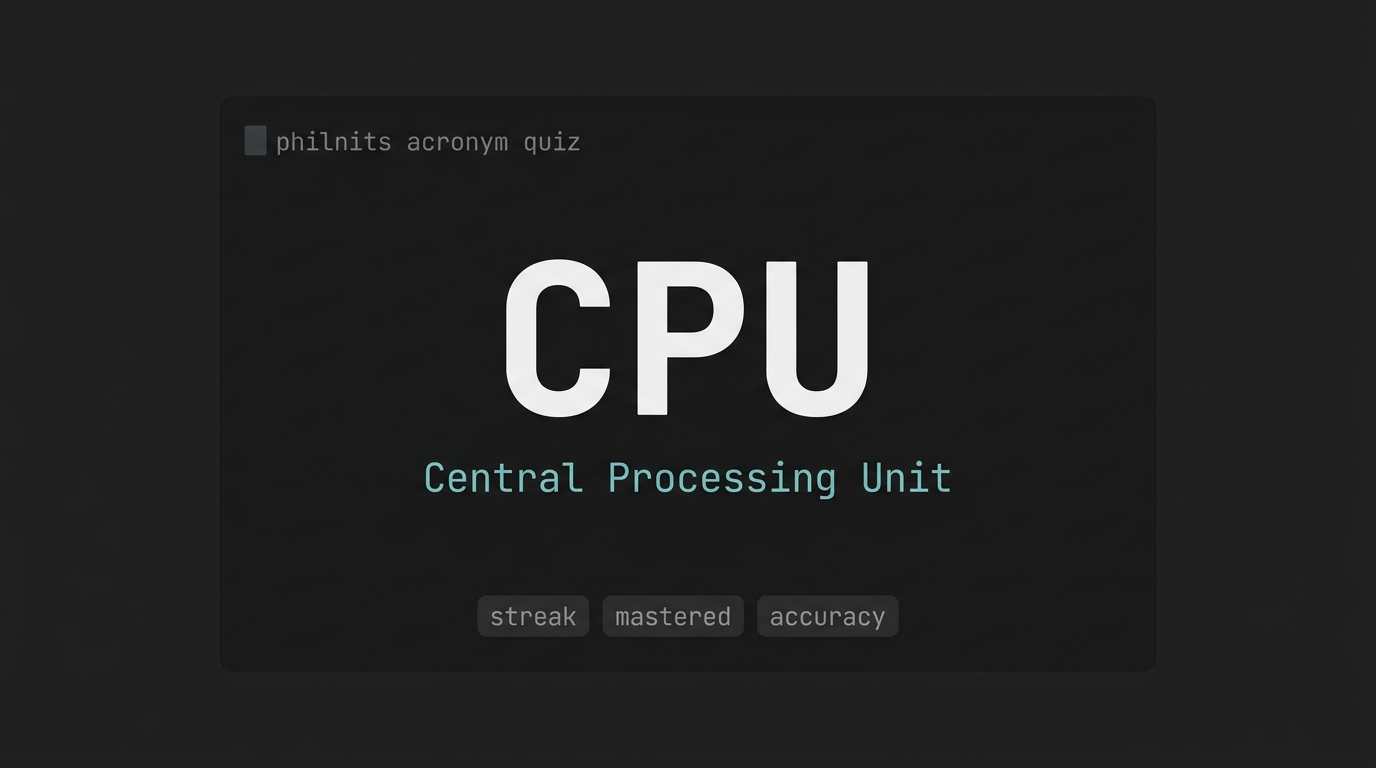
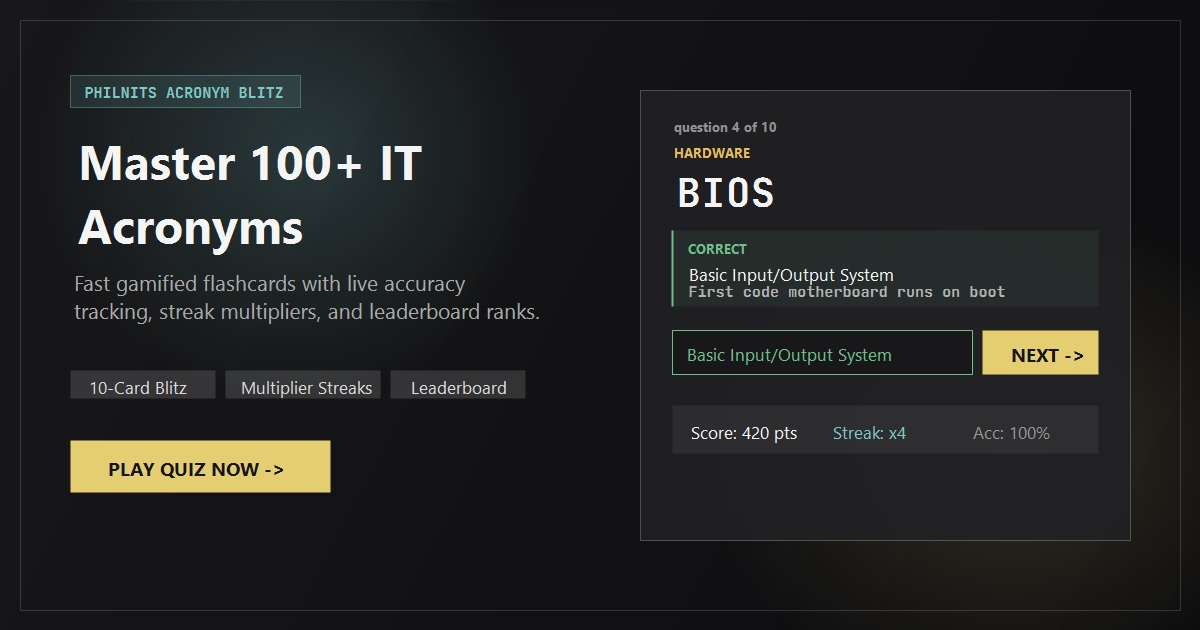
update seo

diff --git a/app/src/app.html b/app/src/app.html
@@ -7,7 +7,7 @@
 
 		<!-- Primary SEO -->
 		<title>PhilNITS Acronym Blitz — IT Acronym Quiz</title>
-		<meta name="description" content="Master PhilNITS IT acronyms with a fast, gamified flashcard quiz. Track your streak, accuracy, and climb the leaderboard. 100+ acronyms covering networking, security, hardware, software & more." />
+		<meta name="description" content="Master PhilNITS IT acronyms with a fast flashcard quiz. Test your speed, track streaks, and climb the live leaderboard with 100+ terms." />
 		<meta name="keywords" content="PhilNITS, IT acronyms, acronym quiz, NITS exam, Philippines IT certification, flashcard quiz, networking acronyms, security acronyms" />
 		<meta name="author" content="PhilNITS Acronym Blitz" />
 		<meta name="robots" content="index, follow" />
@@ -22,18 +22,18 @@
 		<meta property="og:type" content="website" />
 		<meta property="og:url" content="https://acronymquiz.pages.dev/" />
 		<meta property="og:title" content="PhilNITS Acronym Blitz — IT Acronym Quiz" />
-		<meta property="og:description" content="Master PhilNITS IT acronyms with a fast, gamified flashcard quiz. Track your streak, accuracy, and climb the leaderboard." />
+		<meta property="og:description" content="Master PhilNITS IT acronyms with a fast flashcard quiz. Test your speed, track streaks, and climb the live leaderboard with 100+ terms." />
 		<meta property="og:image" content="https://acronymquiz.pages.dev/og-preview.jpg" />
 		<meta property="og:image:width" content="1200" />
 		<meta property="og:image:height" content="630" />
-		<meta property="og:image:alt" content="PhilNITS Acronym Blitz — IT quiz with streak, mastery, and leaderboard" />
+		<meta property="og:image:alt" content="PhilNITS Acronym Blitz — Master 100+ IT Acronyms with streaks and leaderboard" />
 		<meta property="og:site_name" content="PhilNITS Acronym Blitz" />
 		<meta property="og:locale" content="en_PH" />
 
 		<!-- Twitter Card -->
 		<meta name="twitter:card" content="summary_large_image" />
 		<meta name="twitter:title" content="PhilNITS Acronym Blitz — IT Acronym Quiz" />
-		<meta name="twitter:description" content="Master PhilNITS IT acronyms with a fast, gamified flashcard quiz. Track your streak, accuracy, and climb the leaderboard." />
+		<meta name="twitter:description" content="Master PhilNITS IT acronyms with a fast flashcard quiz. Test your speed, track streaks, and climb the live leaderboard with 100+ terms." />
 		<meta name="twitter:image" content="https://acronymquiz.pages.dev/og-preview.jpg" />
 		<meta name="twitter:image:alt" content="PhilNITS Acronym Blitz quiz preview" />
 
